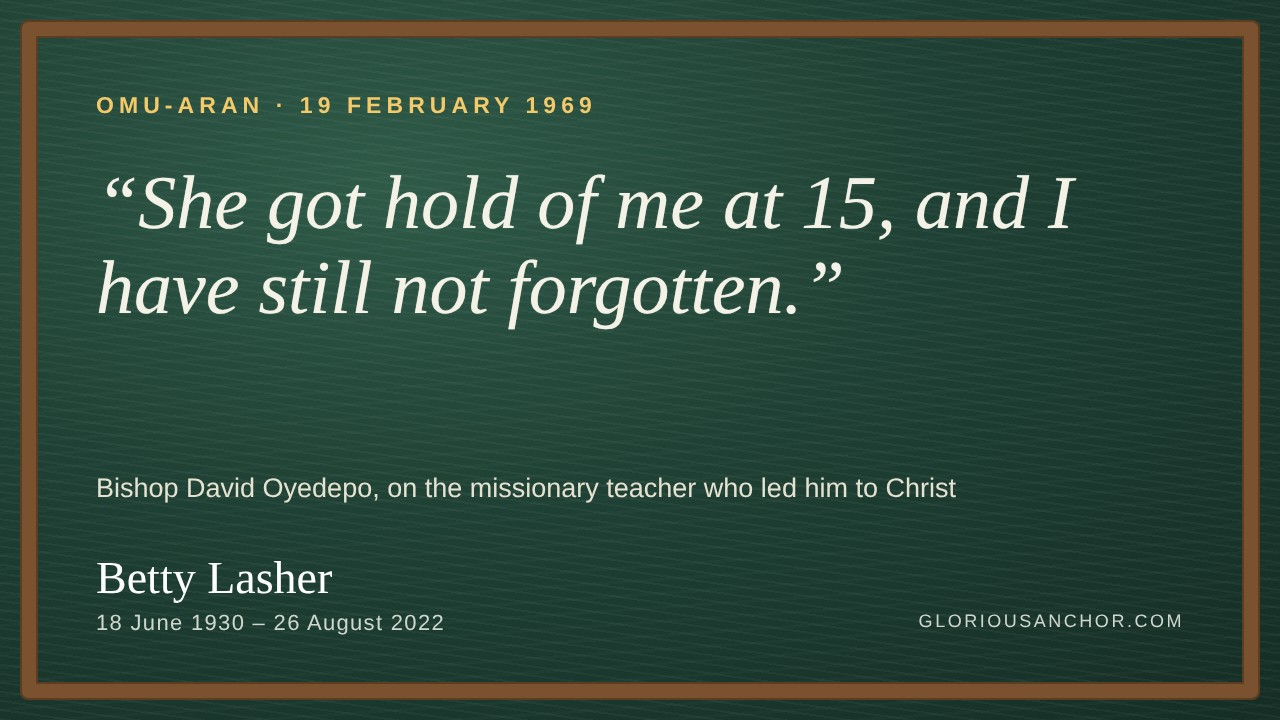
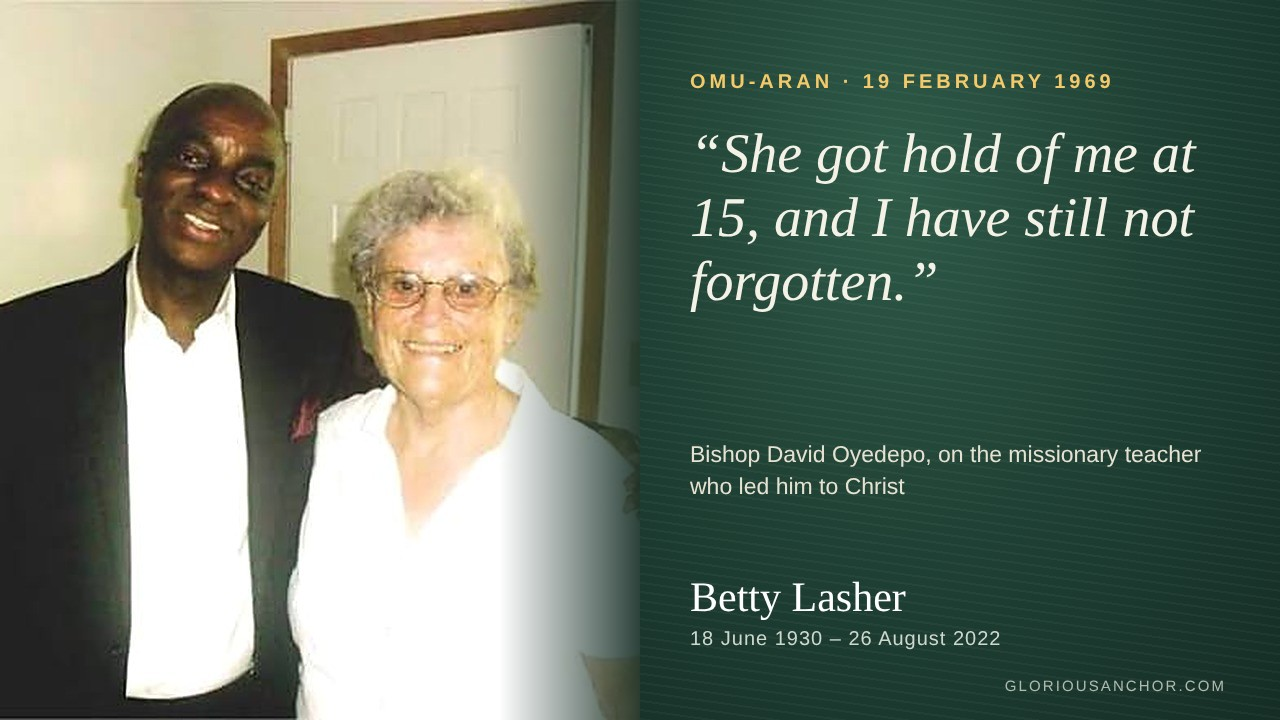
Betty Lasher draft: the photograph of her with Bishop Oyedepo, on the cover and in the article
Claude-Session: https://claude.ai/code/session_01LLnHLEPYRDT8FVHNG9nvbz

diff --git a/articles/2026-11-19-betty-lasher-bishop-oyedepo.md b/articles/2026-11-19-betty-lasher-bishop-oyedepo.md
@@ -20,7 +20,7 @@ On Wednesday 19 February 1969, in a boys' secondary school in a small town in wh
 
 Most people who know his name do not know hers. He never forgot it. This is the story of Betty Lasher, of the boy she "got hold of", and of what one hidden life can set in motion.
 
-*Cover: Bishop Oyedepo's words about Betty Lasher, spoken on the Sunday after her death in August 2022.*
+*Cover: Bishop David Oyedepo with Betty Lasher, and his words about her, spoken on the Sunday after her death in August 2022.*
 
 ## Who was Betty Lasher?
 
@@ -35,6 +35,10 @@ The fullest picture of her comes from one of those boys. Dr Femi Emmanuel, now a
 - **No soft touch.** She was "a disciplinarian", and Dr Emmanuel remembers being on the wrong end of it. She also spoke a little Yoruba.
 
 "When I look back, I wonder at the life of sacrifice that she lived," he said. "She came to Nigeria as a young lady and stayed all through the years in that village."
+
+![Bishop David Oyedepo with Betty Lasher](/articles/images/betty-lasher-with-bishop-oyedepo.jpg)
+
+*Bishop David Oyedepo with Betty Lasher, the teacher he called his "mother in the Lord". Photographer unknown.*
 
 Accounts of her dates differ. Her online memorial gives her years of missionary teaching as 1967 to 1991; Dr Emmanuel remembers her serving more than thirty years and leaving Omu-Aran in 1990. Other former students say she served with SIM, the mission whose churches became ECWA, and taught afterwards at ECWA Theological College, Kagoro, in Kaduna State, before going home to Oregon in the late 1990s. What nobody disputes is that she gave Nigeria the best decades of her life.
 
